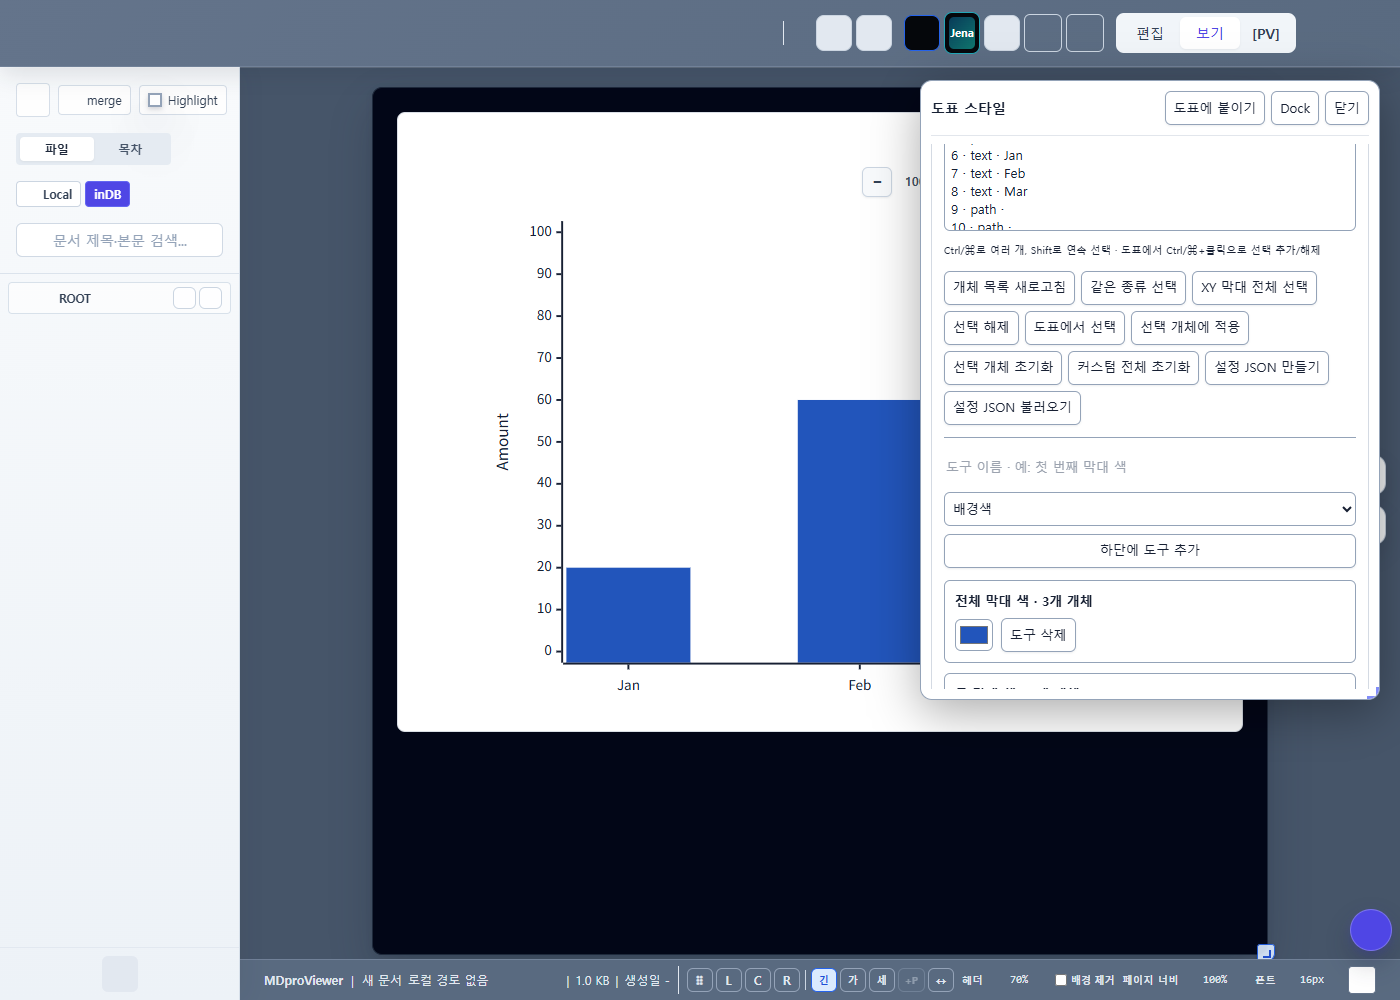
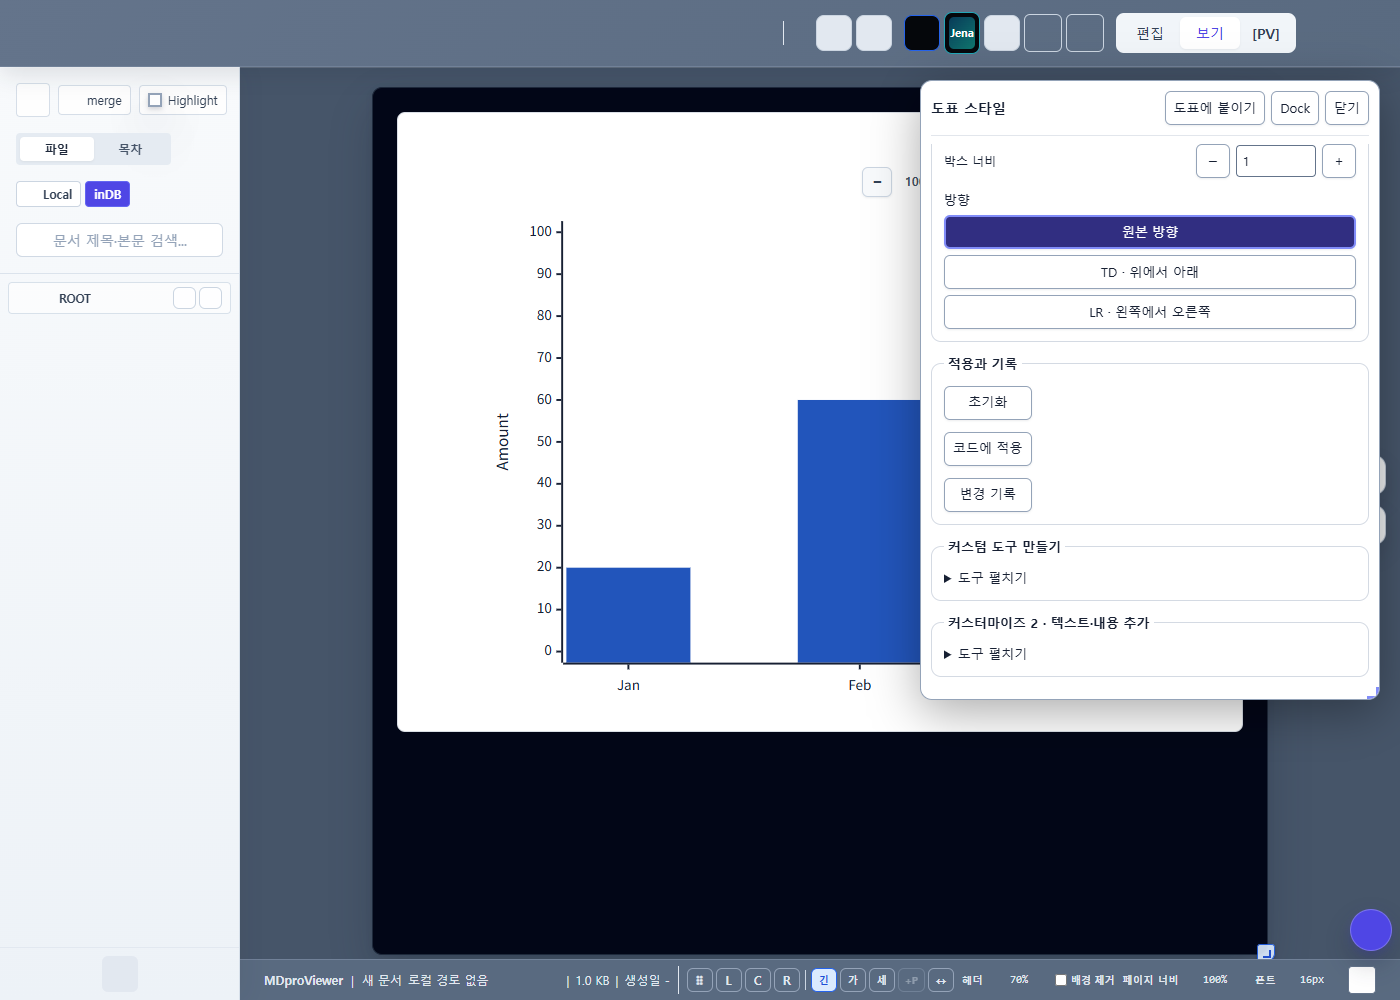
Fix automatic Mermaid object selection

Changed region(s): [[0.6757, 0.155, 0.9829, 0.682]]

diff --git a/mdpro/js/mermaid/appearance-custom.js b/mdpro/js/mermaid/appearance-custom.js
@@ -95,19 +95,20 @@
         const dash=document.createElement('select');dash.setAttribute('aria-label','개체 선 모양');for(const [v,t] of [['','원래 선 모양'],['solid','실선'],['dashed','파선'],['dotted','점선']])dash.add(new Option(t,v));advanced.append(dash);
         const actions=document.createElement('div');actions.style.cssText='display:flex;flex-wrap:wrap;gap:6px';box.append(actions);
         function button(text,fn){const b=document.createElement('button');b.type='button';b.textContent=text;b.title=actionHelp[text]||text;b.className='trt-mermaid-btn trt-mermaid-fixed-fit';b.onclick=fn;actions.append(b);return b;}
-        let picking=false, initialized=false;
+        let picking=false;
         const svg=()=>wrapper.querySelector('.trt-mermaid-canvas svg');
         const config=()=>{const value=wrapper.__mdvMermaidAppearance?.custom;return value?clean(value):{version:1,sourceKey:sourceKey(wrapper.dataset.mermaidOriginalSource),rules:[]};};
         function selectedAll(){const all=elements(svg()),list=Array.from(select.selectedOptions).map(o=>{const index=Number(o.value),el=all[index];if(!el)throw Error('개체를 다시 선택하세요.');return {el,index,signature:signature(el)};});if(!list.length)throw Error('개체를 하나 이상 선택하세요.');return list;}
         function selected(){return selectedAll()[0];}
         function show(){
             wrapper.querySelectorAll('[data-mdpro-custom-selected]').forEach(e=>e.removeAttribute('data-mdpro-custom-selected'));
+            if(!select.selectedOptions.length){for(const {enabled}of Object.values(fields))enabled.checked=false;dash.value='';status.textContent='선택된 개체가 없습니다. 목록 또는 도표에서 직접 선택하세요.';return;}
             try {const selection=selectedAll(),r=selection[0];selection.forEach(v=>v.el.setAttribute('data-mdpro-custom-selected','1'));const saved=config().rules.find(v=>v.index===r.index&&v.signature===r.signature)?.style||{};
                 for(const [key,{enabled,input}] of Object.entries(fields)){enabled.checked=saved[key]!=null;if(saved[key]!=null)input.value=saved[key];}dash.value=saved.dash||'';
                 status.textContent='선택 '+selection.length+'개 · 개별 설정 '+config().rules.length+'개'+(selection.length>1?' · 입력값은 첫 선택 기준, 적용 시 선택 전체 변경':'');
             }catch(e){status.textContent=e.message;}
         }
-        function refresh(){const previous=new Set(Array.from(select.selectedOptions,o=>o.value));select.replaceChildren();elements(svg()).forEach((el,index)=>{const text=(el.textContent||el.parentElement?.textContent||'').trim().replace(/\s+/g,' ').slice(0,35);select.add(new Option((index+1)+' · '+el.tagName+' · '+(el.getAttribute('class')||'').slice(0,30)+' '+text,String(index)));});Array.from(select.options).forEach(o=>o.selected=previous.has(o.value));if(!initialized&&select.options.length)select.options[0].selected=true;initialized=true;show();renderTools();}
+        function refresh(){const previous=new Set(Array.from(select.selectedOptions,o=>o.value));select.replaceChildren();elements(svg()).forEach((el,index)=>{const text=(el.textContent||el.parentElement?.textContent||'').trim().replace(/\s+/g,' ').slice(0,35);select.add(new Option((index+1)+' · '+el.tagName+' · '+(el.getAttribute('class')||'').slice(0,30)+' '+text,String(index)));});Array.from(select.options).forEach(o=>o.selected=previous.has(o.value));show();renderTools();}
         select.onchange=show;
         button('개체 목록 새로고침',refresh);
         function choose(predicate){const all=elements(svg());Array.from(select.options).forEach(o=>o.selected=predicate(all[Number(o.value)]));show();}

diff --git a/mdpro/Apps/PWA/service-worker.js b/mdpro/Apps/PWA/service-worker.js
@@ -1,7 +1,7 @@
 'use strict';
 
 const CACHE_PREFIX = 'md-viewer-pwa-';
-const CACHE_VERSION = '20261125-merge-recovery-10';
+const CACHE_VERSION = '20261125-mermaid-no-selection-11';
 const STATIC_CACHE = CACHE_PREFIX + 'static-' + CACHE_VERSION;
 const RUNTIME_CACHE = CACHE_PREFIX + 'runtime-' + CACHE_VERSION;
 const MAX_RUNTIME_ENTRIES = 80;
@@ -13,7 +13,7 @@ const CORE_ASSETS = [
   './js/app.js',
   './js/mermaid/appearance-panel.js?v=20261125-8',
   './js/mermaid/appearance-source.js?v=20261125-9',
-  './js/mermaid/appearance-custom.js?v=20261125-9',
+  './js/mermaid/appearance-custom.js?v=20261125-11',
   './js/mermaid/appearance-custom2.js?v=20261125-9',
   './js/mermaid/appearance-content.js?v=20261125-9',
   './js/mermaid/appearance-types.js?v=20261125-3',

diff --git a/mdpro/index.html b/mdpro/index.html
@@ -3776,7 +3776,7 @@
 </script>
 
 
-<script src="./js/mermaid/appearance-custom.js?v=20261125-9" charset="utf-8" defer></script>
+<script src="./js/mermaid/appearance-custom.js?v=20261125-11" charset="utf-8" defer></script>
 <script src="./js/mermaid/appearance-content.js?v=20261125-9" charset="utf-8" defer></script>
 <script src="./js/mermaid/appearance-custom2.js?v=20261125-9" charset="utf-8" defer></script>
 <script src="./js/mermaid/appearance-types.js?v=20261125-3" charset="utf-8" defer></script>

diff --git a/docs/mdpro-development/changes/2026-11-25-mermaid-no-default-selection.md b/docs/mdpro-development/changes/2026-11-25-mermaid-no-default-selection.md
@@ -1,0 +1,19 @@
+# 2026-11-25 Mermaid 개체 자동 선택 제거
+
+- ID: `MDPRO-20261125-MERMAID-NO-AUTOSELECT`
+- WebDAV `C:/CusorApps/Webdav_md/webdav-md`, 2026-11-25 미커밋 수정.
+- `mdpro/js/mermaid/appearance-custom.js/refresh`가 최초 목록 생성에서 첫 개체를 강제 선택하던 코드를 제거했다. `show`는 빈 선택이면 강조하지 않고 직접 선택 안내만 표시한다. 목록 갱신과 reload에도 선택이 없으며 사용자의 명시 선택은 기존처럼 재렌더 중 유지한다.
+- 다중 선택/동일 종류/XY 막대 전체/그룹 도구/개별 스타일 저장은 보존했다. 저장된 수정 스타일은 복원되지만 선택 강조는 자동 복원하지 않는다. 원문/IDB/undo/렌더 엔진은 미수정.
+- index/PWA custom helper query `20261125-11`, cache `20261125-mermaid-no-selection-11` 갱신.
+- 실제 Chrome `mermaidAppearanceMultiSelect.browser.cjs`에서 초기 선택0/강조0, 목록 갱신 후0, 사용자가 동일 종류/막대 전체/Ctrl 다중 선택·그룹 도구를 적용하고 저장/reload 후 강조0 확인. 기존 테스트의 예전 inline·기본 펼침 절차도 현재 기본 플로팅/접힘에 맞췄다.
+- custom 구문 검사·웹 빌드·diff 공백 검사 통과. CDN 대신 기존 로컬 실제 Mermaid/marked를 제공한 Chrome 검사이며 실기기/NAS/PV/설치 앱은 미검증.
+- Viewer는 선행 custom helper 이식이 필요하며 이번 상대 runtime/frontend/native/설치/Tauri는 미수정·미실행. WebDAV 기술문서/목록만 갱신한다.
+
+재명령:
+```text
+C:/CusorApps/md-viewerVscode/md_viewer에서 AGENTS.md와
+C:/CusorApps/Webdav_md/webdav-md/docs/mdpro-development/changes/2026-11-25-mermaid-no-default-selection.md를 읽고,
+선행 custom 도구의 첫 개체 자동 선택을 제거해줘. 원래 도형 스타일과 사용자 명시 다중 선택은 유지하고
+초기·목록 갱신·reload 선택0/강조0과 수동 그룹 선택·저장을 검증해줘.
+문서/목록을 갱신하고 별도 요청 없이 Tauri 빌드·설치·배포하지 마.
+```

diff --git a/docs/mdpro-development/TAURI_BUILD_QUEUE.md b/docs/mdpro-development/TAURI_BUILD_QUEUE.md
@@ -18,6 +18,8 @@
 
 ## 대기 기능
 
+- MDPRO-20261125-MERMAID-NO-AUTOSELECT: [개체 자동 선택 제거](changes/2026-11-25-mermaid-no-default-selection.md) — WebDAV custom/index/PWA 수정·Chrome 검증. 선행 helper 이식 후 Viewer 선택 적용 대기, Tauri 빌드 요청 없음.
+
 - MDPRO-20261125-MERGE-PUSH-RECOVERY: [오늘 작업 보존·Git 병합/푸시 복구](changes/2026-11-25-merge-push-recovery.md) — 충돌 5파일·중복 ID/변수/CSS 복구·저장 호환·170검사/Chrome18검사/Mermaid4종/웹 빌드 통과. 전체 기존 실패36건 별도 기록. Viewer 미수정·Tauri 해당 없음/미실행.
 
 - MDPRO-20261125-MERMAID-CONTENT: [범용 내용 추가/ME 연결](changes/2026-11-25-mermaid-general-content.md) — WebDAV content/custom2/source/ME 자식/index/PWA 구현·Chrome/41검사/웹 빌드. Viewer 선행 helper/schema/브리지 선택 이식 및 frontend/native/설치 대기. 이번 Tauri 빌드 요청 없음.
